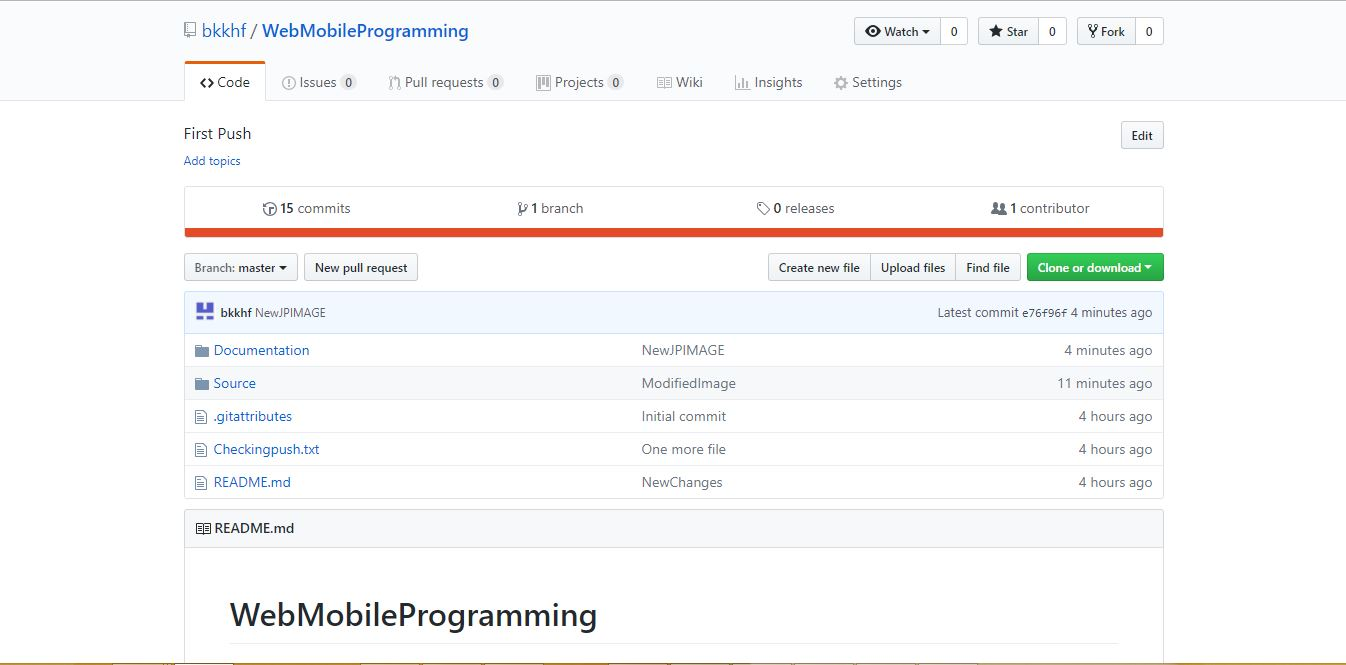
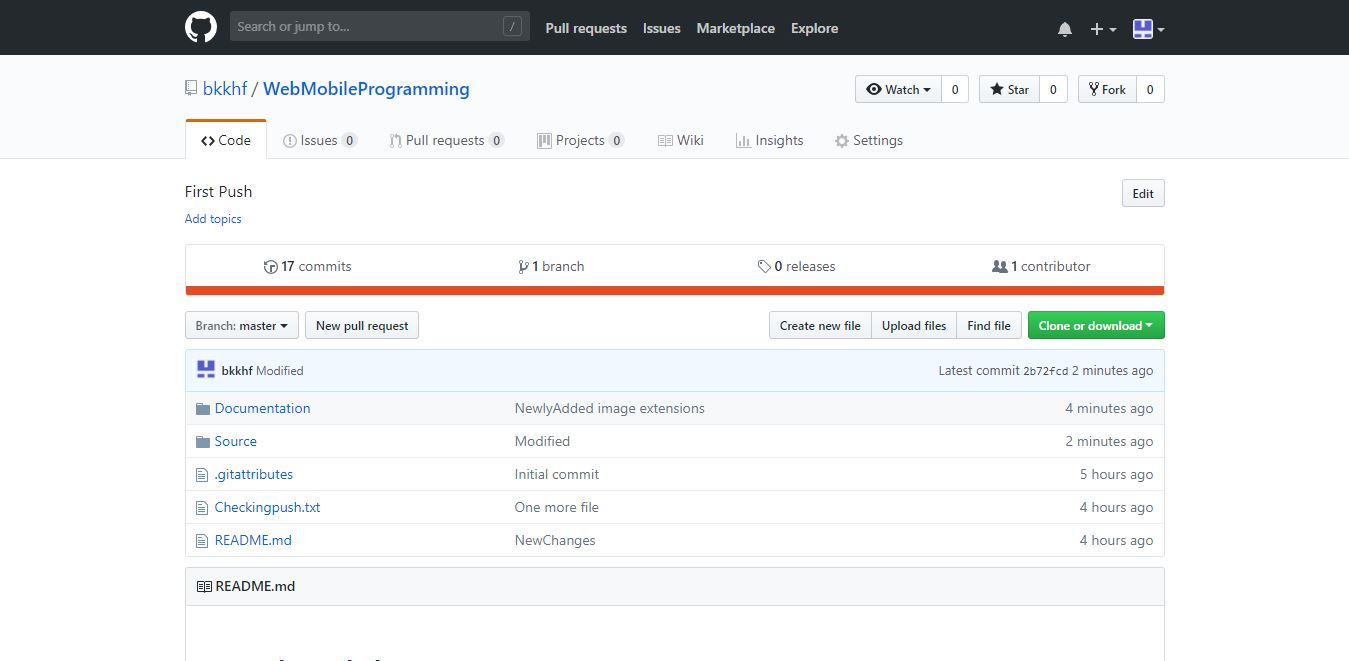
ImageFiles

diff --git a/Source/index.html b/Source/index.html
@@ -12,15 +12,15 @@
  <li> Install GIT HUB desktop/ GIT BASH applications.</li>
  <br/>
  <li> Login using GIT account.<a href="..\Documentation\GITLogin.jpg" target="_blank"> <img width="40" height="40" border="0" align="center"  src="..\Documentation\MyImage.jpg"/></a> Click the image to view the screenshot.</li>
- <li> Create a new local repository using "New Repository" option in File Menu.<a href="..\Documentation\NewRepoCreation.JPG" target="_blank"> <img width="40" height="40" border="0" align="center"  src="..\Documentation\MyImage.jpg"/> </a> Click the image to view the screenshot.</li>
+ <li> Create a new local repository using "New Repository" option in File Menu.<a href="..\Documentation\NewRepoCreation.jpg" target="_blank"> <img width="40" height="40" border="0" align="center"  src="..\Documentation\MyImage.jpg"/> </a> Click the image to view the screenshot.</li>
  <br/>
- <li> Create two folders in the local repo named "Source" and "Documentation". <a href="..\Documentation\createdFolders.JPG" target="_blank"> <img width="40" height="40" border="0" align="center"  src="..\Documentation\MyImage.jpg"/> </a> Click the image to view the screenshot.</li>
+ <li> Create two folders in the local repo named "Source" and "Documentation". <a href="..\Documentation\createdFolders.jpg" target="_blank"> <img width="40" height="40" border="0" align="center"  src="..\Documentation\MyImage.jpg"/> </a> Click the image to view the screenshot.</li>
  <br/>
  <li> Source folder is used to store the code files.</li>
  <br/>
  <li> Documentation folder is used to store the documentation and image files.</li>
  <br/>
- <li> Here is the screensot of github. <a href="..\Documentation\GithubImage.JPG" target="_blank"> <img width="40" height="40" border="0" align="center"  src="..\Documentation\MyImage.jpg"/> </a></li>
+ <li> Here is the screensot of github. <a href="..\Documentation\GithubImage.jpg" target="_blank"> <img width="40" height="40" border="0" align="center"  src="..\Documentation\MyImage.jpg"/> </a></li>
  
  </ol>
 
